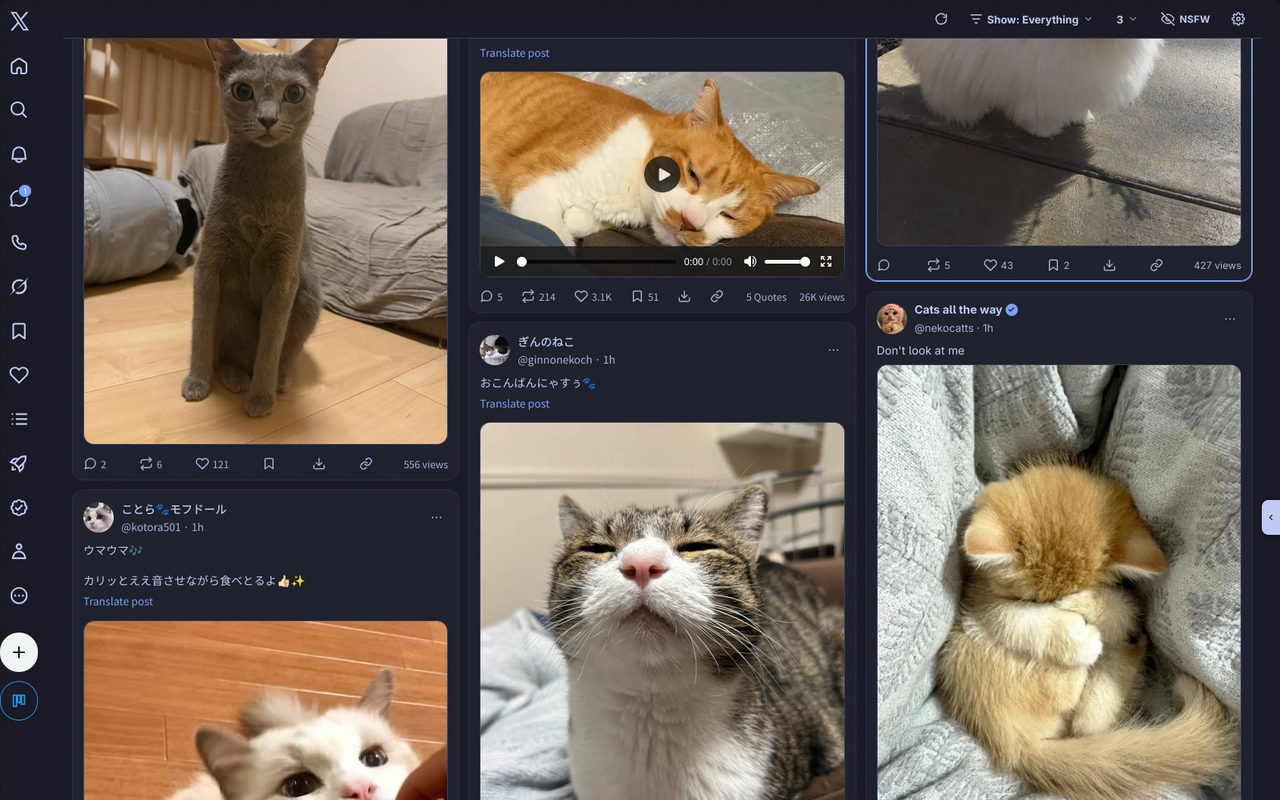
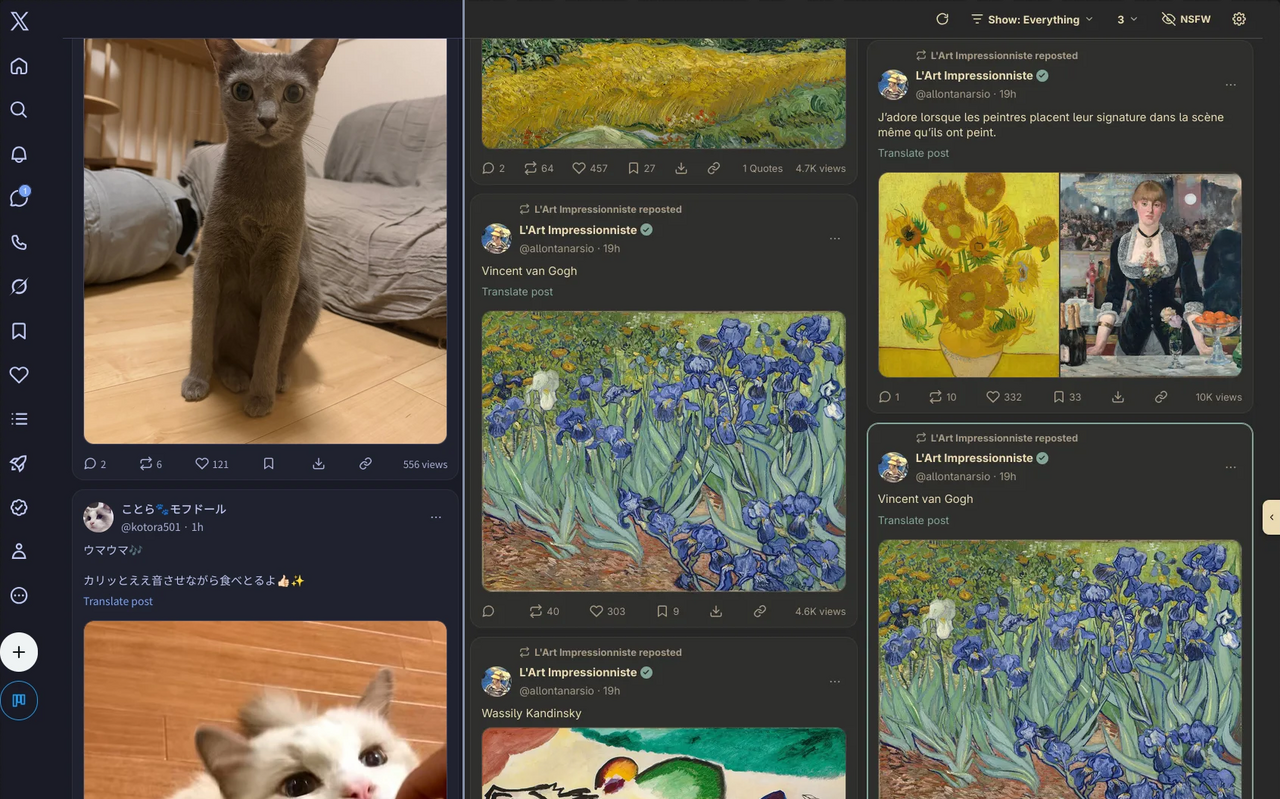
Store: the themes slide shows two themes side by side (cats and paintings)
prepare-own.js can set several shots side by side ("parts").

Claude-Session: https://claude.ai/code/session_018kEDBPkK9jgvVfS9DEM5ks

diff --git a/store/prepare-own.js b/store/prepare-own.js
@@ -5,7 +5,8 @@
 // The originals are never copied into the repository: only the blurred results are. Each entry of own-shots.json: { "src": file in the folder, "name": the slide's file name,
 // "blur": [[x, y, width, height], ...], "y": where the cut starts, "x" and "w": a narrower cut, for a close-up } in the original's pixels. The slide's picture is 16:10, so a
 // taller window is cut to that shape from the line `y` (the window's own edge, 8, if there is none): choose it so that what the slide is about is inside. A shot already 16:10
-// is left whole. Needs ImageMagick (convert).
+// is left whole. "parts": [{ "src", "x", "w", "blur" }, ...] sets several shots side by side, each cut to its own x and w (the same y and height), with a thin line between
+// (two themes in one picture, say). Needs ImageMagick (convert).
 const fs = require('node:fs');
 const path = require('node:path');
 const { execFileSync } = require('node:child_process');
@@ -16,15 +17,36 @@ const OUT = path.join(__dirname, 'screenshots', 'own');
 fs.mkdirSync(OUT, { recursive: true });
 const shots = JSON.parse(fs.readFileSync(path.join(__dirname, 'own-shots.json'), 'utf8'));
 const MARGIN = 8; // (the window's own dark edge in a full-window capture)
+const GAP = 3; // (the line between parts)
+const mosaic = ([x, y, bw, bh]) => ['-region', `${bw}x${bh}+${x}+${y}`, '-scale', '6%', '-scale', '1667%', '-blur', '0x6', '+region']; // (a coarse mosaic, then a blur: nothing of a face or a name is left)
+const size = (file) => execFileSync('identify', ['-format', '%w %h', file + '[0]'], { encoding: 'utf8' }).trim().split(' ').map(Number);
 for (const s of shots) {
+  const out = path.join(OUT, s.name + '.png');
+  if (s.parts) {
+    const files = s.parts.map((q) => path.join(dir, q.src));
+    if (files.some((f) => !fs.existsSync(f))) { console.log('missing', s.name); continue; }
+    const total = s.parts.reduce((n, q) => n + q.w, 0), h = size(files[0])[1];
+    const ch = Math.min(h - 2 * MARGIN, Math.round(total / 1.6)), top = Math.max(MARGIN, Math.min(s.y || MARGIN, h - MARGIN - ch));
+    const args = [];
+    s.parts.forEach((q, i) => {
+      if (i) args.push('(', '-size', `${GAP}x${ch}`, 'xc:#8590a6', ')');
+      args.push('(', files[i] + '[0]');
+      for (const r of q.blur || []) args.push(...mosaic(r));
+      args.push('-crop', `${q.w}x${ch}+${q.x}+${top}`, '+repage', ')');
+    });
+    args.push('+append', '-resize', '1280x', '-strip', 'PNG24:' + out);
+    execFileSync('convert', args);
+    console.log('wrote', s.name);
+    continue;
+  }
   const src = path.join(dir, s.src);
   if (!fs.existsSync(src)) { console.log('missing', s.src); continue; }
-  const [w, h] = execFileSync('identify', ['-format', '%w %h', src + '[0]'], { encoding: 'utf8' }).trim().split(' ').map(Number);
+  const [w, h] = size(src);
   const args = [src + '[0]'];
-  for (const [x, y, bw, bh] of s.blur || []) args.push('-region', `${bw}x${bh}+${x}+${y}`, '-scale', '6%', '-scale', '1667%', '-blur', '0x6', '+region'); // (a coarse mosaic, then a blur: nothing of a face or a name is left)
+  for (const r of s.blur || []) args.push(...mosaic(r));
   const cw = s.w || w - 2 * MARGIN, ch = Math.min(h - 2 * MARGIN, Math.round(cw / 1.6)), top = Math.max(MARGIN, Math.min(s.y || MARGIN, h - MARGIN - ch));
   const left = Math.max(MARGIN, Math.min(s.x || MARGIN, w - MARGIN - cw));
-  args.push('-crop', `${cw}x${ch}+${left}+${top}`, '+repage', '-resize', '1280x', '-strip', 'PNG24:' + path.join(OUT, s.name + '.png'));
+  args.push('-crop', `${cw}x${ch}+${left}+${top}`, '+repage', '-resize', '1280x', '-strip', 'PNG24:' + out);
   execFileSync('convert', args);
   console.log('wrote', s.name);
 }

diff --git a/store/listing.md b/store/listing.md
@@ -71,7 +71,7 @@ Columns on Home, Search, Lists, Bookmarks and profiles; a post panel with its pi
 4. `04-reply-tools.png` Reply with pictures and emoji, from the comment box in the panel.
 5. `05-media-wall.png` Media tabs as a gallery.
 6. `06-keys.png` Browse with your keyboard.
-7. `07-themes.png` Fourteen colour themes (a feed of cats in a dark theme).
+7. `07-themes.png` Fourteen colour themes (two of them side by side: cats in one, paintings in another).
 8. `08-photo-viewer.png` Photos and video, done properly: the viewer with Download and Copy link.
 (Not in the slides, still in `store/screenshots/`: the filters, the room, the starting points (the welcome page), the settings page and the settings in a panel.)
 
